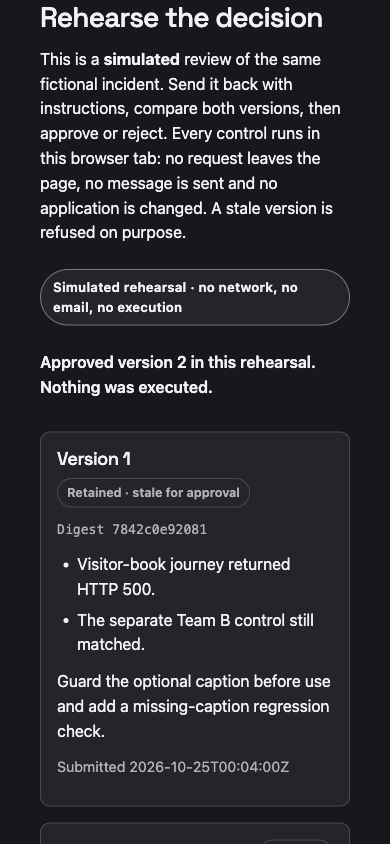
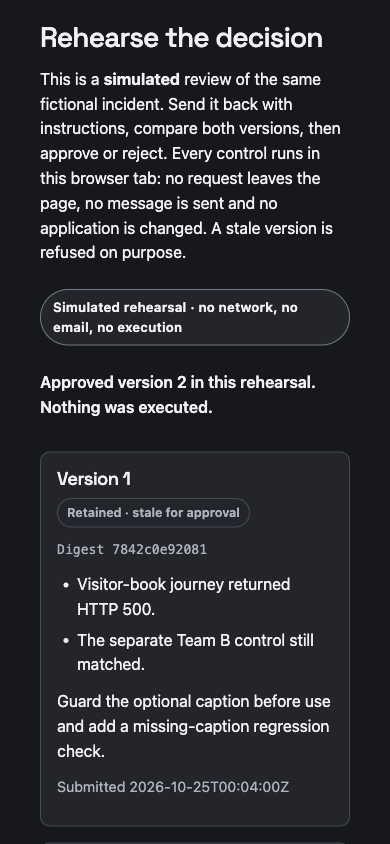
Record the incident rehearsal release and freshness snapshot
Production 0acd7ff / Worker 86a1e589. Documents the live write-free
decision walkthrough, viewport/theme/focus checks, the refreshed remote
dependency snapshot and the unchanged owner gates.

diff --git a/docs/evidence/incident-rehearsal-20261108/README.md b/docs/evidence/incident-rehearsal-20261108/README.md
@@ -1,0 +1,83 @@
+# Write-free incident decision rehearsal — 8 November 2026
+
+Scoped [#367](https://github.com/loftwah/app-composer/issues/367) rehearsal
+slice. Production is Composer
+`0acd7ff185347580e034f417f2ffb7e5fc761ce9`, Worker
+`86a1e589-5442-4b95-aaaa-c46ce0e14b4c`; `/build.json` matches the source.
+
+## Delivered
+
+`/incident-replay` now includes **Rehearse the decision**, a client-side,
+write-free walkthrough of the existing proposal contract:
+
+- Version 1 shows its digest, observations and proposed change.
+- **Send back with notes** requires a useful instruction (12–500 characters).
+  The first version stays readable, a linked version 2 is created with the
+  retained evidence plus the reproduction, scoped data read and regression
+  check, and the digest changes.
+- Approving the stale version 1 is refused with a plain message; only the
+  active version can be decided.
+- Approval records a **simulated** outcome only: no email, deployment, recovery
+  or agent call. Rejection preserves both versions and never treats the incident
+  as resolved.
+- The owner-notification preview is fictional (`owner@example.invalid`), states
+  that nothing was sent, and contains no approval link or bearer value.
+- The page navigation now links to the rehearsal, and decided versions are
+  labelled **Approved in this rehearsal** or **Rejected in this rehearsal**.
+
+The controller is `src/lib/incident-rehearsal.ts` (pure state machine) plus
+`src/lib/incident-rehearsal-client.ts` (DOM). It imports no network helper and
+never calls an admin endpoint.
+
+## Live production check
+
+Using a separate automation browser against `https://composer.loftwah.com`:
+
+| Step | Result |
+| --- | --- |
+| Load `/incident-replay` | 200; title `Incident Desk: inspect a safe replay · App Composer`; nav contains **Rehearse it** |
+| Send back with `fix` | Refused: “Add at least 12 characters of useful instruction.” |
+| Send back with a real instruction | Version 1 retained as **Retained · stale for approval**; version 2 active with digest `7e758e286f67` |
+| Approve stale version 1 | Refused: “Version 1 is stale after the send-back. Decide on version 2.” |
+| Approve version 2 | **Approved in this rehearsal**; status says “Nothing was executed.” Outcome states no email, deployment or recovery ran |
+| Network during all of the above | 27 recorded requests before and after; no action request. The only external entry is the expected CSP-blocked Cloudflare Insights beacon; Cloudflare challenge-platform requests are browser protection, not page actions |
+| Console | No application error. One expected blocked Insights beacon and browser Permissions-Policy warnings |
+
+Viewports and themes: 1440 × 1000 dark (initial), 1440 × 1000 light (approved)
+and 390 × 844 dark (approved). No horizontal overflow at either width. Keyboard
+Tab reaches the controls with a 2px orange `:focus-visible` outline, and the
+approved outcome heading receives focus with the same ring.
+
+Screenshots: [`prod-1440-dark.png`](prod-1440-dark.png),
+[`prod-1440-light-approved.png`](prod-1440-light-approved.png),
+[`prod-390-dark-approved.png`](prod-390-dark-approved.png).
+
+## Checks
+
+```sh
+pnpm check:fast -- tests/incident-rehearsal.test.mjs
+```
+
+Types and generated source, semantic lint and format passed; 7 focused tests
+passed with 0 failures: start state; instruction minimum and version retention;
+stale approval refusal; idempotent repeat approval with no effect; rejection
+preservation; reset; and a fictional unsent email preview with no link or
+secret.
+
+The guarded `pnpm deploy` ran the full check, production build, migrations,
+upload and every live gate, then verified the exact live source. The first
+rehearsal deploy (`04120da` / Worker `2fd7a2c0`) passed the same journey; the
+final label/nav patch is `0acd7ff` / Worker `86a1e589`, rechecked above.
+
+## What this does not prove
+
+- This is the **safe rehearsal** scenario. It is not a real EmDash incident, a
+  signed-in owner decision, a configured recipient, a delivery receipt, an
+  execution or an independent recovery.
+- No email, PagerDuty, signed-in Incident Desk interaction, physical device or
+  screen-reader acceptance was exercised.
+- The private proposal store, review endpoints and execution adapter are
+  unchanged and remain owner-gated.
+
+#367 therefore stays open with the real lab incident, authorised email,
+signed-in decisions, execution/recovery and provider gates unchanged.

diff --git a/docs/backlog-20261106.md b/docs/backlog-20261106.md
@@ -635,3 +635,23 @@ The first #118 commerce source shipped to production. Production moved from
 
 The next executable batch is one larger product slice from #289, #311 or #367,
 chosen against the current evidence.
+
+## Continuation 30 — 8 November 2026
+
+The safe incident rehearsal and a refreshed dependency snapshot shipped.
+Production moved from `09c441c` / Worker `7d0cc1fa` to `0acd7ff` / Worker
+`86a1e589`. Evidence:
+[`docs/evidence/incident-rehearsal-20261108`](evidence/incident-rehearsal-20261108/README.md).
+
+| Issue | Result |
+| --- | --- |
+| [#367](https://github.com/loftwah/app-composer/issues/367) | `/incident-replay` now has a write-free decision rehearsal: a required send-back instruction, a linked version 2 that retains version 1 and its evidence, a refused stale approval, and a simulated approval/rejection with an explicit no-email/no-deployment/no-recovery outcome. The notification preview is fictional and unsent. Live production 1440 dark/light and 390 dark, keyboard focus, no horizontal overflow, zero action requests and no application console error. Seven focused tests passed. This is the rehearsal scenario only; the real lab incident, authorised email, signed-in decisions, execution and independent recovery remain open. |
+| [#321](https://github.com/loftwah/app-composer/issues/321) | Dated remote freshness snapshot refreshed at 2026-11-08T01:55Z: 22 current, 2 feature opportunities (`@tanstack/react-router` 1.170.46 against the EmDash exact pin, `@cloudflare/workers-types` 5.20261108.1), TypeScript 7.0.2 held as a breaking major, 0 security, 0 unsupported, 0 unknown. Local freshness 27/27 and `pnpm audit --audit-level low` clean. No pin, lockfile or mini-app repository changed. |
+| [#7](https://github.com/loftwah/app-composer/issues/7) / [#29](https://github.com/loftwah/app-composer/issues/29) | The replay page keeps its existing metadata and heading order; the new section starts at `h2` with `h3` version cards. No new public copy defect found. |
+| [#19](https://github.com/loftwah/app-composer/issues/19) / [#118](https://github.com/loftwah/app-composer/issues/118) | Unchanged in this batch. Their remaining gates are recorded in continuations 28 and 29. |
+| [#408](https://github.com/loftwah/app-composer/issues/408) | Unchanged; the owner has not named a host repository. |
+
+No issue was closed in this batch because none meets its full acceptance. The
+next executable work is the authenticated admin visual pass, the #408 host
+repository, #19's scheduled run and #118's connection/backup sources, or one
+owner-gated provider slice.

diff --git a/docs/STATUS.md b/docs/STATUS.md
@@ -2,6 +2,32 @@
 
 Reviewed 25 October 2026; updated 8 November 2026. This page is the current navigation snapshot; [issue #11](https://github.com/loftwah/app-composer/issues/11) owns exact release receipts and later changes. [Historical observations](history/status-through-20261018.md) retain the earlier record without treating superseded candidates as current.
 
+## Write-free incident decision rehearsal — 8 November 2026
+
+Production is Composer `0acd7ff185347580e034f417f2ffb7e5fc761ce9`, Worker
+`86a1e589-5442-4b95-aaaa-c46ce0e14b4c`; `/build.json` matches. `/incident-replay`
+now lets a visitor rehearse the existing proposal decision entirely in the
+browser tab: send version 1 back with a required instruction, compare the
+retained first version with a linked version 2, see a stale approval refused,
+then record a simulated approval or rejection. The result states plainly that
+no email, deployment, agent call or recovery occurred, and the notification
+preview is fictional and unsent.
+
+The live journey was checked on production: the short note was refused, the
+send-back retained both versions, stale version 1 was refused, and version 2
+showed **Approved in this rehearsal** with no execution. No action request left
+the page across the whole walkthrough. 1440 dark, 1440 light and 390 dark were
+inspected with no horizontal overflow; keyboard focus shows a 2px outline and
+the outcome heading receives focus. Seven focused tests passed and the guarded
+deploy ran every live gate.
+
+This is the safe rehearsal scenario only. A real EmDash incident, configured
+recipient email, signed-in owner decision, execution and independent recovery
+remain open on #367.
+
+Evidence:
+[incident rehearsal](evidence/incident-rehearsal-20261108/README.md).
+
 ## Saved order exceptions in Needs attention — 8 November 2026
 
 Production is Composer `09c441c68b3d4a987a7f906187ad503326fe6594`, Worker
